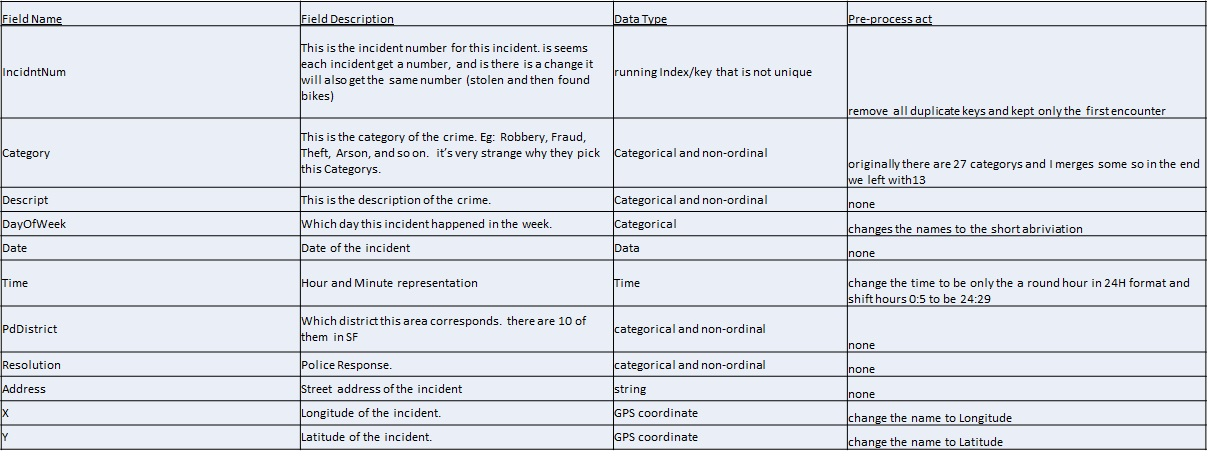
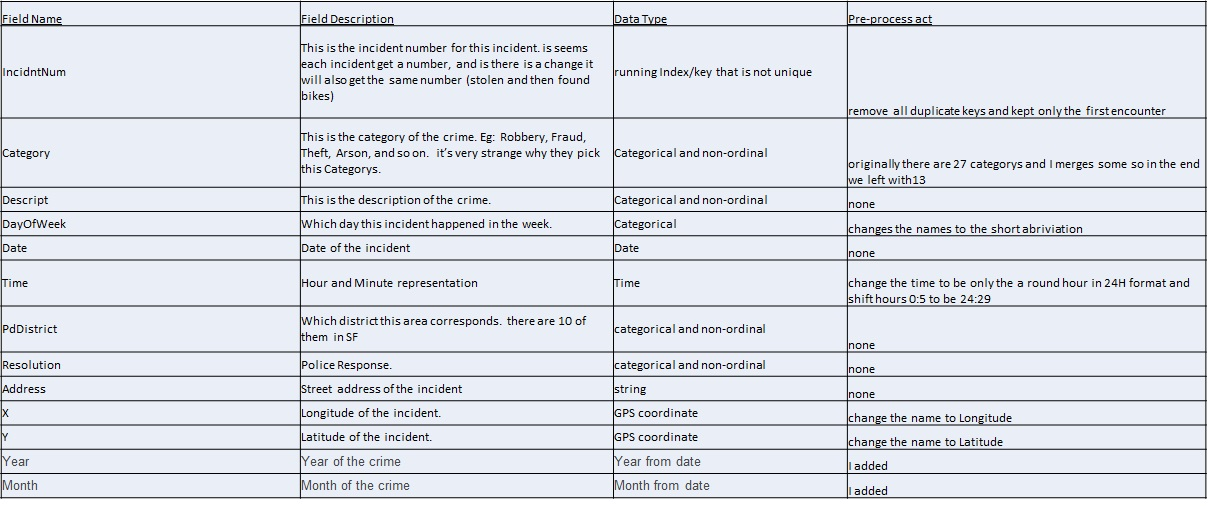
readme

Changed region(s): [[0.0, 0.0917, 1.0, 1.0], [0.0, 0.0, 1.0, 0.0611], [0.0, 0.1223, 0.0613, 0.1834]]

diff --git a/README.md b/README.md
@@ -13,7 +13,7 @@
 
 #Introduction to data set
 
-The data set have 976731 records,
+The data set have 976,731 records,
 For each record we have the following columns:
 
 ![](/fig/data_set_into.jpg)
@@ -83,7 +83,9 @@ show_on_geo_net(map,s_data,cat_filter,div_desc=F,filename)
 #Results
 
 ![](fig/Year.png)
-(one month in 09 is missing
+(one month in 09 is missing)
+
 ![](fig/Month.png)
 
+![](fig/Days.png)
 
